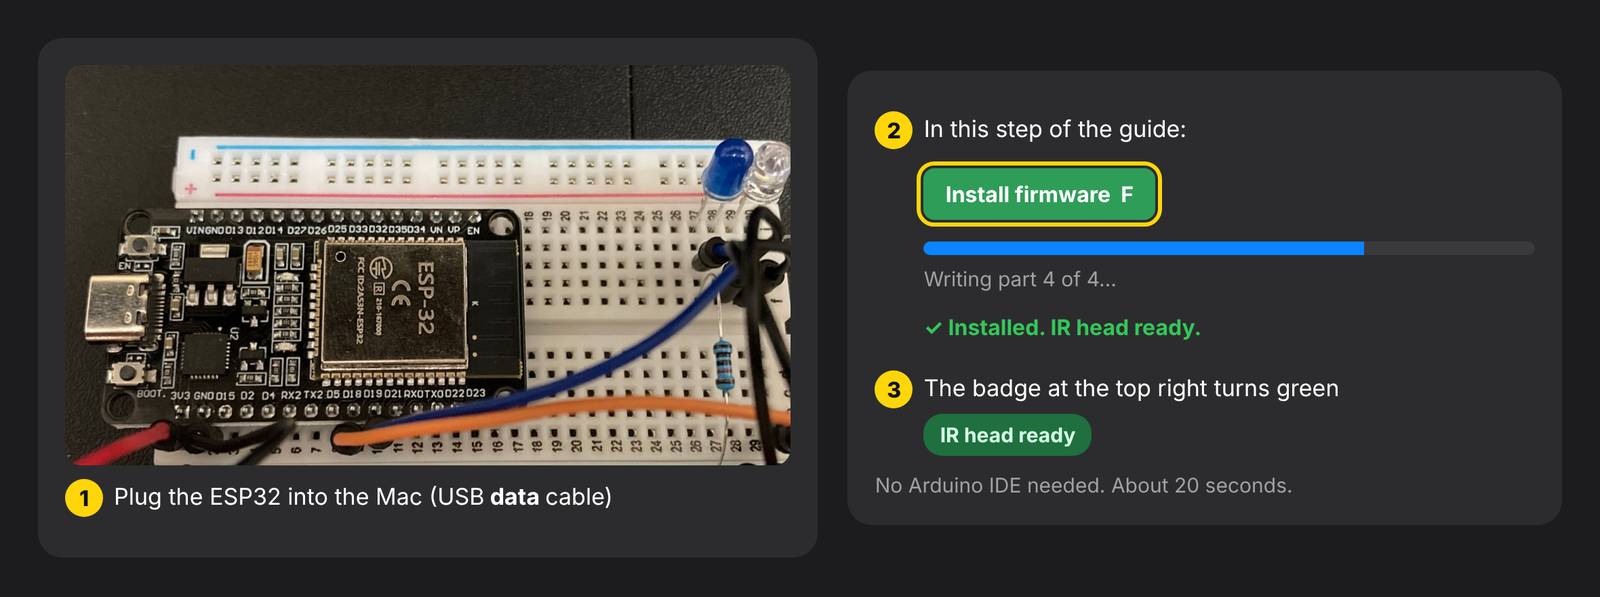
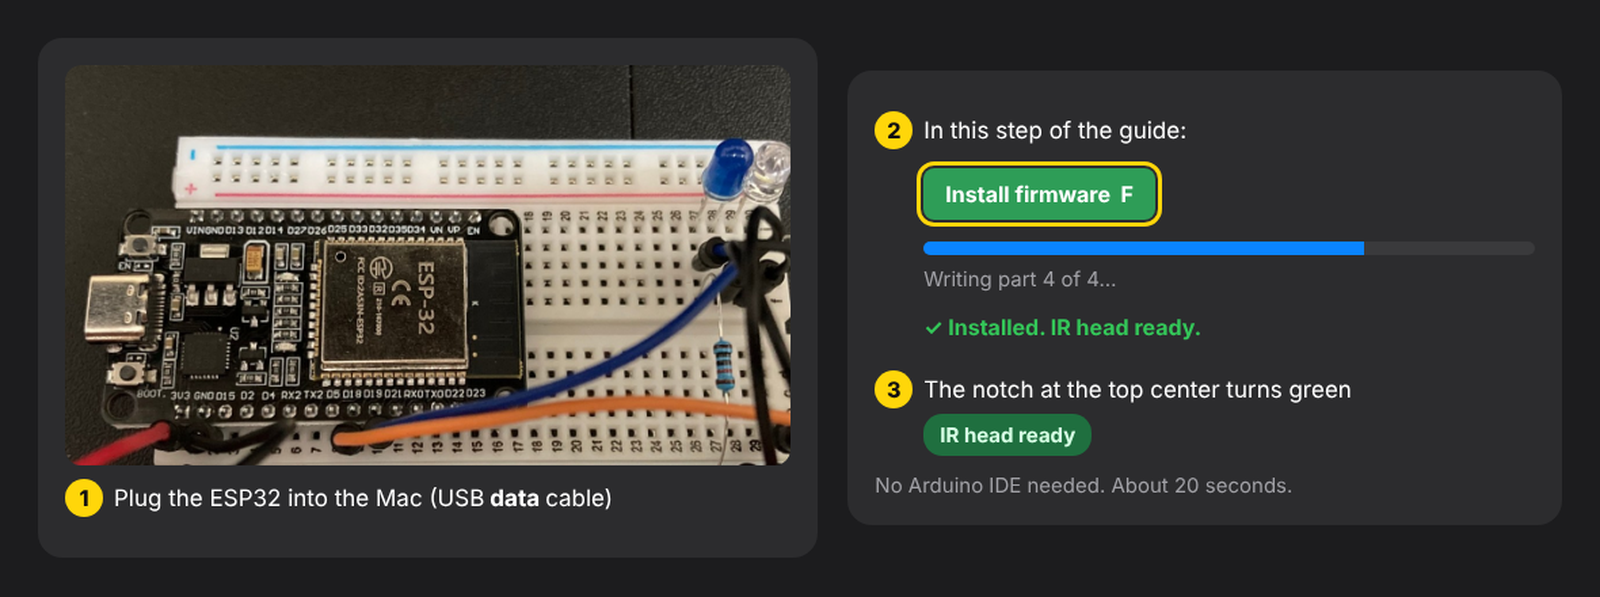
README: Build the IR head section with a 6-step picture guide; guide pictures now point to the IR notch at the top center

diff --git a/README.md b/README.md
@@ -25,6 +25,20 @@ Pokémon Gold, Silver and Crystal on your Game Boy Color or ModRetro Chromatic.
 you can build in an afternoon (**[guide with pictures](docs/ir-head.md)**). Watt Bank installs the IR head's software
 itself. The calories part only needs an iPhone (**[Shortcut guide](docs/health-shortcut.md)**).
 
+## Build the IR head
+
+![Build the IR head in 6 steps](docs/images/ir_build_overview.png)
+
+1. **Parts (about $10):** an ESP32 dev board, a clear 940 nm IR LED, a dark-blue 940 nm IR receiver, a 100 Ω and a
+   10 kΩ resistor, a breadboard, jumper wires and a USB **data** cable.
+2. **Power:** ESP32 3V3 to the breadboard's red + rail, GND to the blue − rail.
+3. **IR LED (sends):** pin D18 → 100 Ω → LED long leg; LED short leg → GND.
+4. **IR receiver (receives):** pin D19 → receiver short leg, 10 kΩ from D19 to 3V3; receiver long leg → GND.
+5. **Firmware:** plug the ESP32 into the Mac, press **I** in Watt Bank and click **Install firmware**. No Arduino IDE needed.
+6. **Done:** the notch at the top of Watt Bank turns green, **IR head ready**.
+
+Full guide with bigger pictures, the schematic and troubleshooting: **[docs/ir-head.md](docs/ir-head.md)**.
+
 ## Features
 
 - **Cards:**
